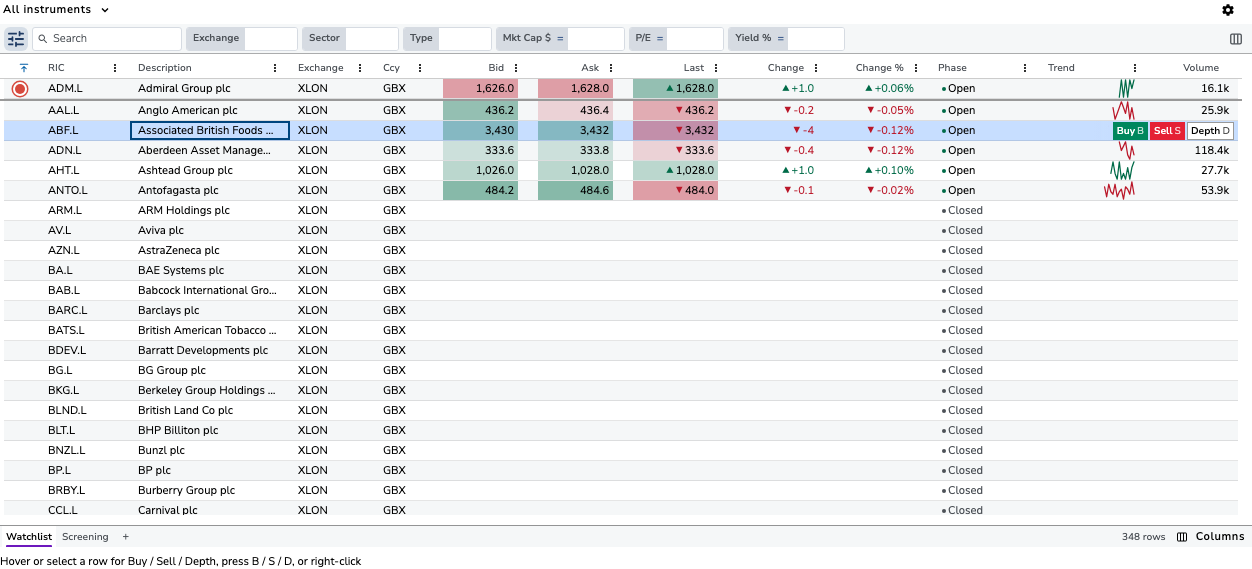
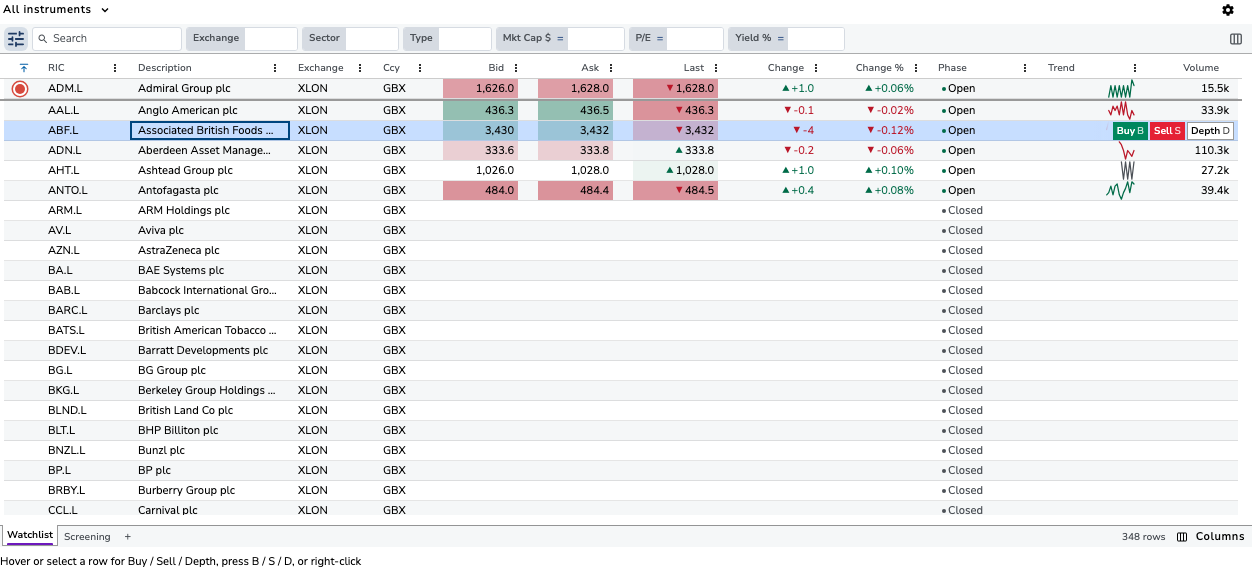
Instrument grid footer: the selected column-set tab sits on the footer's top border
Moved up 1px over the border, with that border down its sides and along its
bottom, so one line runs along the footer and round the tab. The tab scroller
reaches up over the border so the tab is not clipped.

diff --git a/packages/trading-ui/src/components/InstrumentGrid/InstrumentGrid.css b/packages/trading-ui/src/components/InstrumentGrid/InstrumentGrid.css
@@ -153,6 +153,10 @@
 .tradingInstrumentGridFooter-columnSets {
   overflow-x: auto;
   scrollbar-width: none;
+  /* reach up over the footer's top border, so the selected tab (moved up
+     1px onto it) is not clipped by this scroller */
+  margin-top: -1px;
+  padding-top: 1px;
 }
 
 /* column-set tabs: text tabs, the active one underlined */
@@ -191,7 +195,13 @@
 }
 
 .tradingInstrumentGridFooter-tabSelected {
-  /* the grid's surface, so the active set reads as part of the table */
+  /* the grid's surface, so the active set reads as part of the table: moved
+     up over the footer's top border, with that border down its sides and
+     along its bottom, so the one line runs along the footer and round it */
+  z-index: 1;
+  transform: translateY(-1px);
+  border: 1px solid var(--salt-separable-primary-borderColor);
+  border-top: 0;
   background: var(--salt-container-primary-background);
   color: var(--salt-content-primary-foreground);
   font-weight: var(--salt-text-fontWeight-strong);

diff --git a/docs/components/instrument-grid.md b/docs/components/instrument-grid.md
@@ -79,7 +79,7 @@ Buy, Sell and Depth sit at the right edge of a row, in a narrow client-side colu
 
 One 22px row under the table (linked instruments show in the link column and the workspace ChannelPicker, so the footer does not repeat them):
 
-- **Column-set tabs** on the left, text tabs with the active one on the grid's surface (`--salt-container-primary-background`) and underlined (`--salt-navigable-indicator-active`): click, or Left / Right arrows on a focused tab, to show a set. "+" saves the columns in view as a new set, named in a prompt.
+- **Column-set tabs** on the left, text tabs; the active one is on the grid's surface (`--salt-container-primary-background`), moved up 1px over the footer's top border with that border down its sides and along its bottom, so the line runs along the footer and round the tab, and underlined (`--salt-navigable-indicator-active`): click, or Left / Right arrows on a focused tab, to show a set. "+" saves the columns in view as a new set, named in a prompt.
 - **Row count**: the rows in the body, "N rows", kept current from the data source's `resize` events. Under a filter-bar filter it is the filtered count, bold with a filter icon; the server sends no unfiltered total, so it is never "x of y". Pinned rows are not counted.
 - **Columns** on the right opens the vuu column picker.
 
